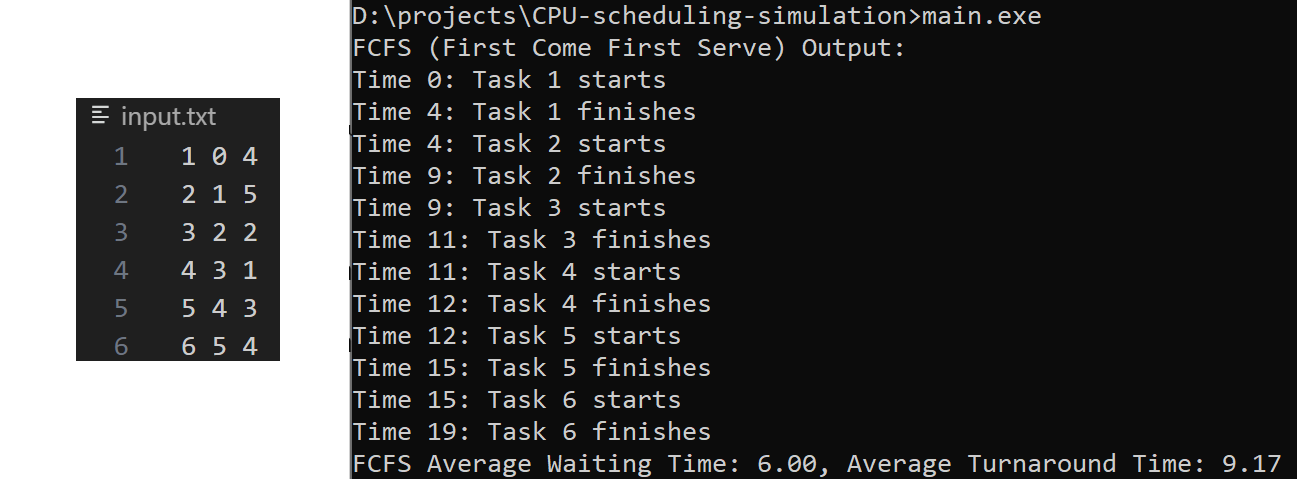
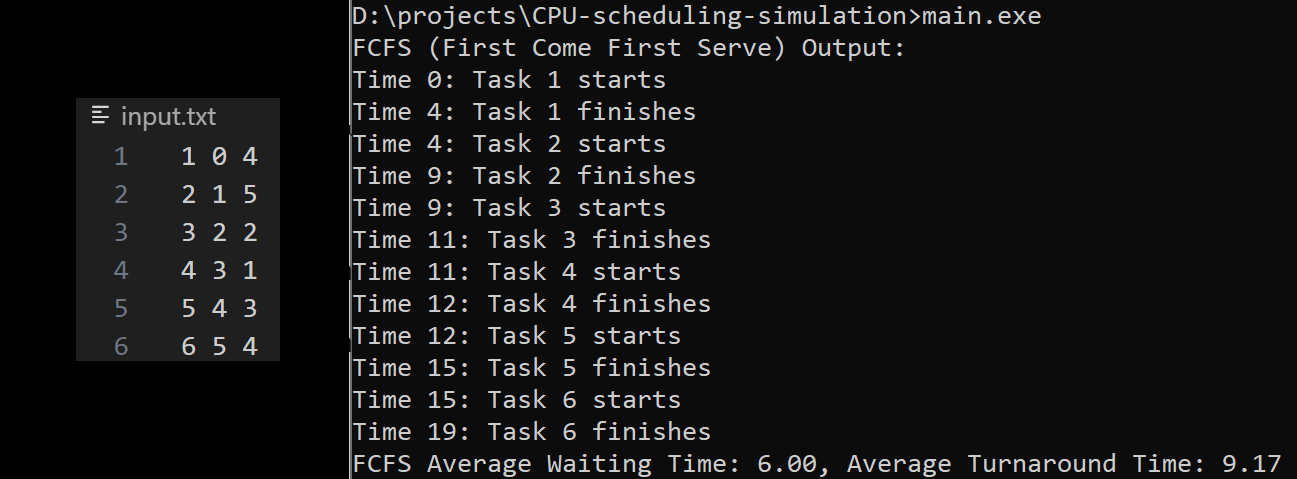
add sjf and spn method
add sjf and spn document and test images

Changed region(s): [[0.0, 0.0, 0.2776, 1.0]]

diff --git a/main.rs b/main.rs
@@ -1,7 +1,7 @@
 mod scheduler;
 use std::fs::File;
 use std::io::{self, BufRead, BufReader};
-use scheduler::{Task, fcfs, round_robin, calculate_metrics};
+use scheduler::{Task, fcfs, round_robin,spn,sjf, calculate_metrics};
 
 // Read tasks from input.txt file
 fn read_tasks_from_file(file_path: &str) -> io::Result<Vec<Task>> {
@@ -39,13 +39,23 @@ fn main() {
     match read_tasks_from_file(tasks_file_path) {
         Ok(tasks) => {
 
-            let completed_fcfs = fcfs(tasks.clone());
-            let (fcfs_avg_wait, fcfs_avg_turn) = calculate_metrics(&completed_fcfs);
-            println!("FCFS Average Waiting Time: {:.2}, Average Turnaround Time: {:.2}", fcfs_avg_wait, fcfs_avg_turn);
+            // let completed_fcfs = fcfs(tasks.clone());
+            // let (fcfs_avg_wait, fcfs_avg_turn) = calculate_metrics(&completed_fcfs);
+            // println!("FCFS Average Waiting Time: {:.2}, Average Turnaround Time: {:.2}", fcfs_avg_wait, fcfs_avg_turn);
 
-            let completed_rr = round_robin(tasks.clone(), 2);
-            let (rr_avg_wait, rr_avg_turn) = calculate_metrics(&completed_rr);
-            println!("RR Average Waiting Time: {:.2}, Average Turnaround Time: {:.2}", rr_avg_wait, rr_avg_turn);
+            // let completed_rr = round_robin(tasks.clone(), 2);
+            // let (rr_avg_wait, rr_avg_turn) = calculate_metrics(&completed_rr);
+            // println!("RR Average Waiting Time: {:.2}, Average Turnaround Time: {:.2}", rr_avg_wait, rr_avg_turn);
+            
+            println!("SPN (Shortest Process Next) Output:");
+            let completed_spn = spn(tasks.clone());
+            let (spn_avg_wait, spn_avg_turn) = calculate_metrics(&completed_spn);
+            println!("SPN Average Waiting Time: {:.2}, Average Turnaround Time: {:.2}", spn_avg_wait, spn_avg_turn);
+            
+            let completed_sjf = sjf(tasks.clone());
+            let (sjf_avg_wait, sjf_avg_turn) = calculate_metrics(&completed_sjf);
+            println!("SJF Average Waiting Time: {:.2}, Average Turnaround Time: {:.2}", sjf_avg_wait, sjf_avg_turn);
+
         },
         Err(e) => {
             eprintln!("Failed to read tasks from {}: {}", tasks_file_path, e);

diff --git a/scheduler.rs b/scheduler.rs
@@ -87,6 +87,44 @@ pub fn round_robin(mut tasks: Vec<Task>, quantum: u32) -> Vec<Task> {
     completed_tasks
 }
 
+pub fn spn(mut tasks: Vec<Task>) -> Vec<Task> {
+    let mut current_time = 0;
+    let mut completed_tasks = Vec::new();
+
+    while !tasks.is_empty() {
+        // Filter tasks that have arrived
+        let available_tasks: Vec<_> = tasks.iter().enumerate()
+            .filter(|(_, task)| task.time_arrival <= current_time)
+            .collect();
+
+        if let Some((index, _)) = available_tasks.iter()
+            .min_by_key(|(_, task)| task.burst_time) {
+            let mut task = tasks.remove(*index);
+            task.start_time = Some(current_time);
+            println!("Time {}: Task {} starts", current_time, task.pid);
+            current_time += task.burst_time;
+            task.finish_time = Some(current_time);
+            println!("Time {}: Task {} finishes", current_time, task.pid);
+            completed_tasks.push(task);
+        } else {
+            println!("Time {}: CPU Idle", current_time);
+            // Advance time to the next task's arrival if the CPU is idle
+            if let Some(next_task) = tasks.iter().min_by_key(|task| task.time_arrival) {
+                current_time = next_task.time_arrival;
+            } else {
+                break;
+            }
+        }
+    }
+
+    completed_tasks
+}
+
+pub fn sjf(tasks: Vec<Task>) -> Vec<Task> {
+    println!("SJF (Shortest Job First) Output:");
+    spn(tasks) // SJF is equivalent to SPN without preemption
+}
+
 // Function to calculate average waiting time and turnaround time
 pub fn calculate_metrics(tasks: &[Task]) -> (f64, f64) {
     let total_waiting_time: u32 = tasks.iter().map(|task| task.finish_time.unwrap() - task.time_arrival - task.burst_time).sum();

diff --git a/docs/md/ShortestJobFirst.md b/docs/md/ShortestJobFirst.md
@@ -1,6 +1,6 @@
-## Shortest Process Next (SPN) Scheduling Verification
+## Shortest Job Next (SJN) Scheduling Verification
 
-This document verifies the Shortest Process Next (SPN) scheduling output for the given input tasks.
+This document verifies the Shortest Job Next (SJN) scheduling output for the given input tasks.
 
 ### Input Tasks
 ```
@@ -12,9 +12,9 @@ This document verifies the Shortest Process Next (SPN) scheduling output for the
 6 5 4
 ```
 
-### SPN Scheduling
+### SJN Scheduling
 
-The step-by-step execution of the SPN scheduling is as follows:
+The step-by-step execution of the SJN scheduling is as follows:
 
 1. **Time 0:**
    - Task 1 starts.
@@ -80,10 +80,10 @@ Average Turnaround Time: (4 + 18 + 5 + 2 + 6 + 9) / 6 = 44 / 6 ≈ 7.33
 
 ### Conclusion
 
-The Shortest Process Next (SPN) scheduling output is correct and aligns with the expected behavior of the algorithm:
+The Shortest Job Next (SJN) scheduling output is correct and aligns with the expected behavior of the algorithm:
 
 ```
-SPN (Shortest Process Next) Output:
+SJN (Shortest Job Next) Output:
 Time 0: Task 1 starts
 Time 4: Task 1 finishes
 Time 4: Task 4 starts
@@ -96,7 +96,7 @@ Time 10: Task 6 starts
 Time 14: Task 6 finishes
 Time 14: Task 2 starts
 Time 19: Task 2 finishes
-SPN Average Waiting Time: 4.17, Average Turnaround Time: 7.33
+SJN Average Waiting Time: 4.17, Average Turnaround Time: 7.33
 ```
 
 ### External Verification
@@ -106,4 +106,4 @@ The output is also verified with the website: [https://process-scheduling-solver
 #### Screenshot of Website Verification
 ![Test Image](/docs/img/sjf-spn-verify.png)
 
-This output confirms the correctness of the Shortest Process Next scheduling algorithm implementation and its verification using an external tool.
+This output confirms the correctness of the Shortest Job Next scheduling algorithm implementation and its verification using an external tool.

diff --git a/README.md b/README.md
@@ -10,6 +10,10 @@ simulate a CPU scheduling system with these methods:
 
 ## RR
 [Round Robin (RR)](docs/md/RoundRobin.md)
+
+## SJF & SPN
+[Shortest Job First (SJF)](docs/md/ShortestJobFirst.md)
+[Shortest Process Next (SJF)](docs/md/ShortestProcessNext.md)
 # TESTS
 ## FCFS test
 ### output:
@@ -25,6 +29,12 @@ simulate a CPU scheduling system with these methods:
 ### verification using an external tool:
 ![Test Image](docs/img/rr-verify.png)
 
+## SJN and SPN test
+### output:
+![Test Image](docs/img/sjf-spn-output-test.png)
+
+### verification using an external tool:
+![Test Image](docs/img/sjf-spn-verify.png)
 # Run
 ## install rust
 download and install rust from this [link](https://www.rust-lang.org/tools/install)
